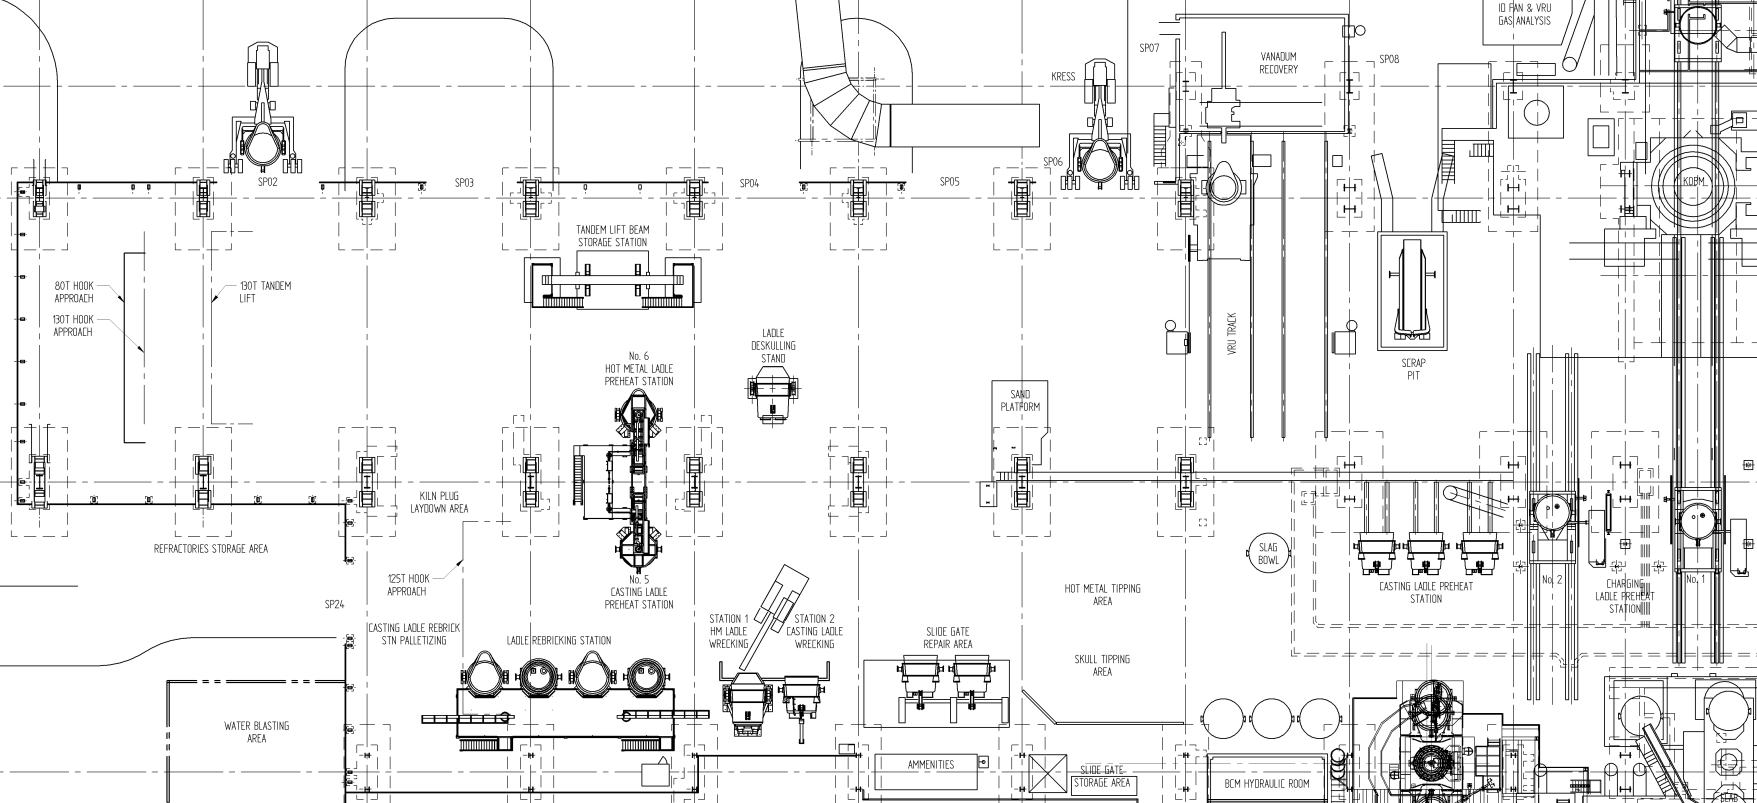
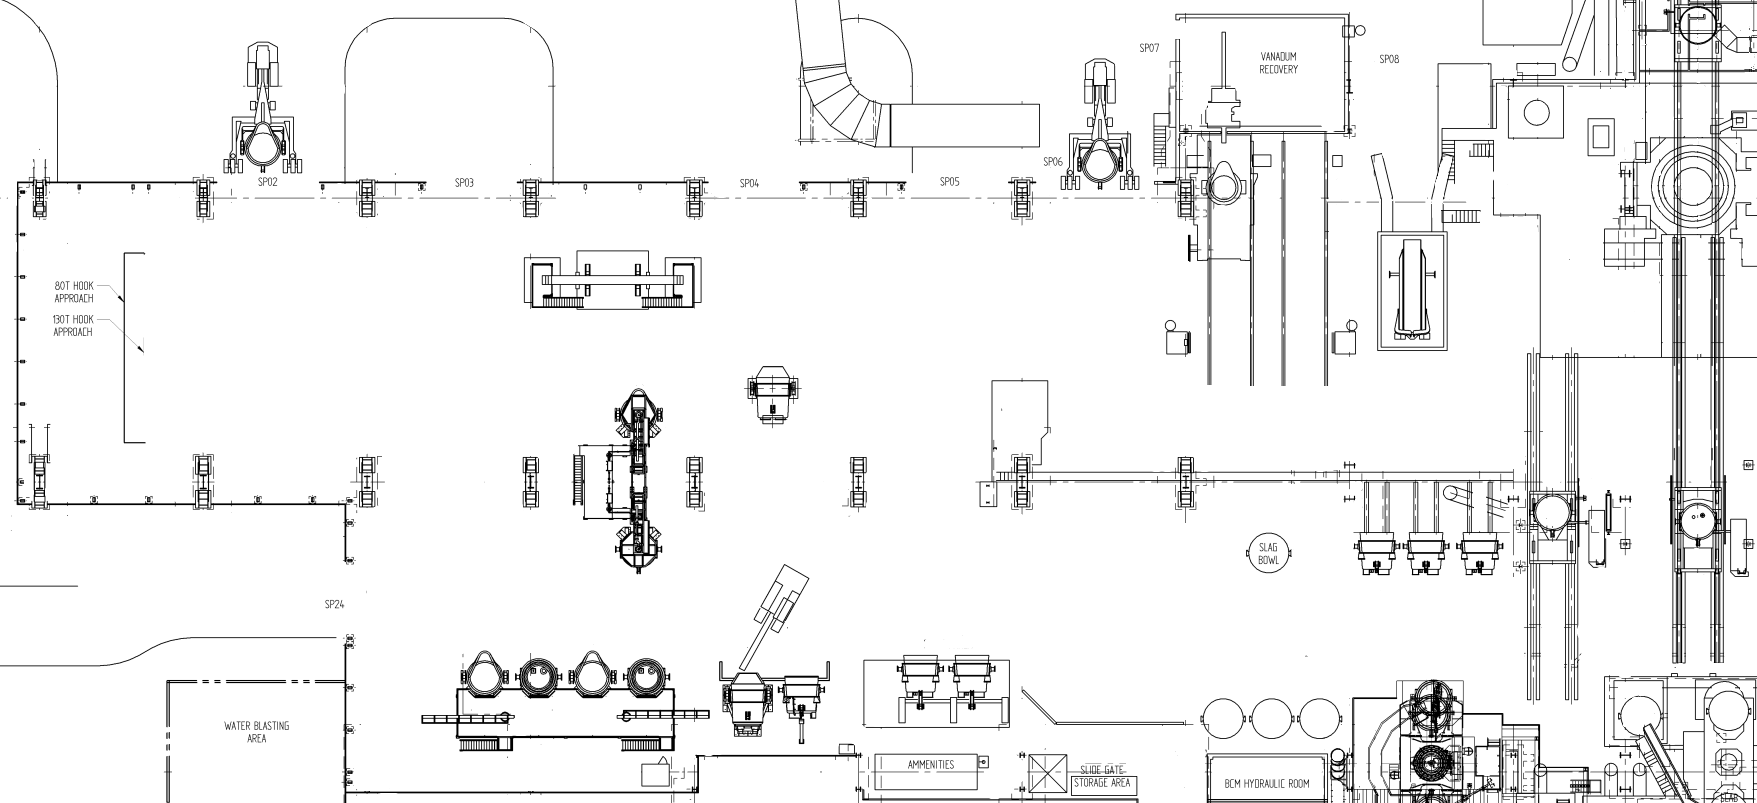
Adjusted map background

diff --git a/plot_coordinates.py b/plot_coordinates.py
@@ -123,7 +123,7 @@ def plot_coordinates(coordinate_data, xLow, xHigh, yLow, yHigh, zLow, zHigh, ini
     
     fig, ax = plt.subplots()
 
-    ax.imshow(bg_image, extent=[xLow, xHigh, yLow, yHigh], aspect='auto', alpha=0.5)
+    ax.imshow(bg_image, extent=[xLow, xHigh, yLow, yHigh], aspect='auto', alpha=0.8)
 
     ax.set_xlim(xLow, xHigh)
     ax.set_ylim(yLow, yHigh)
